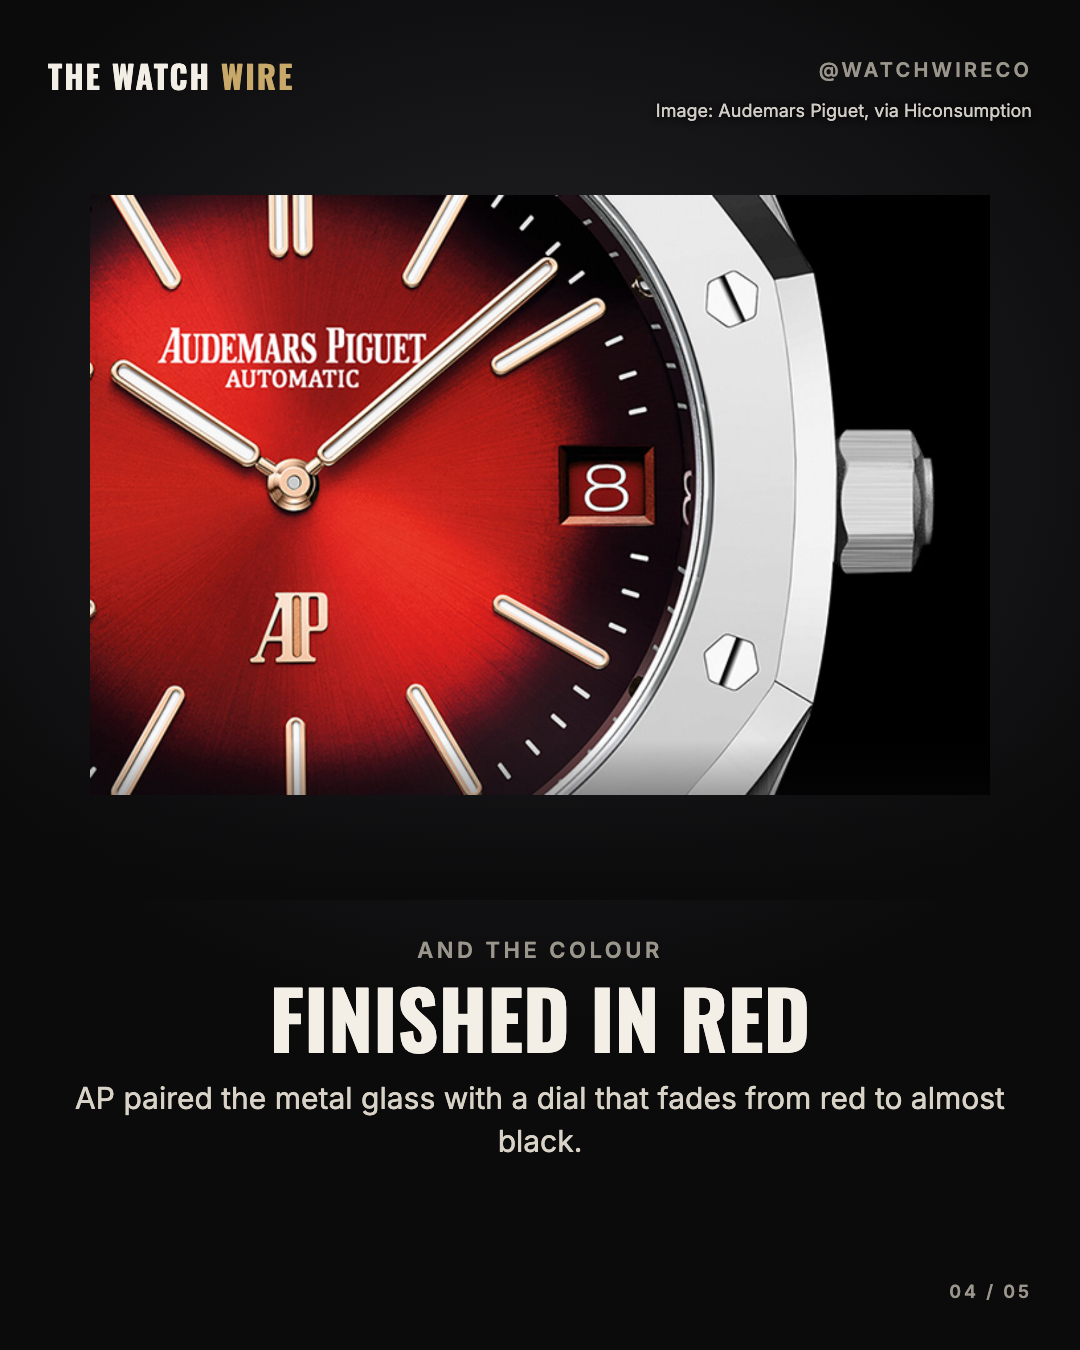
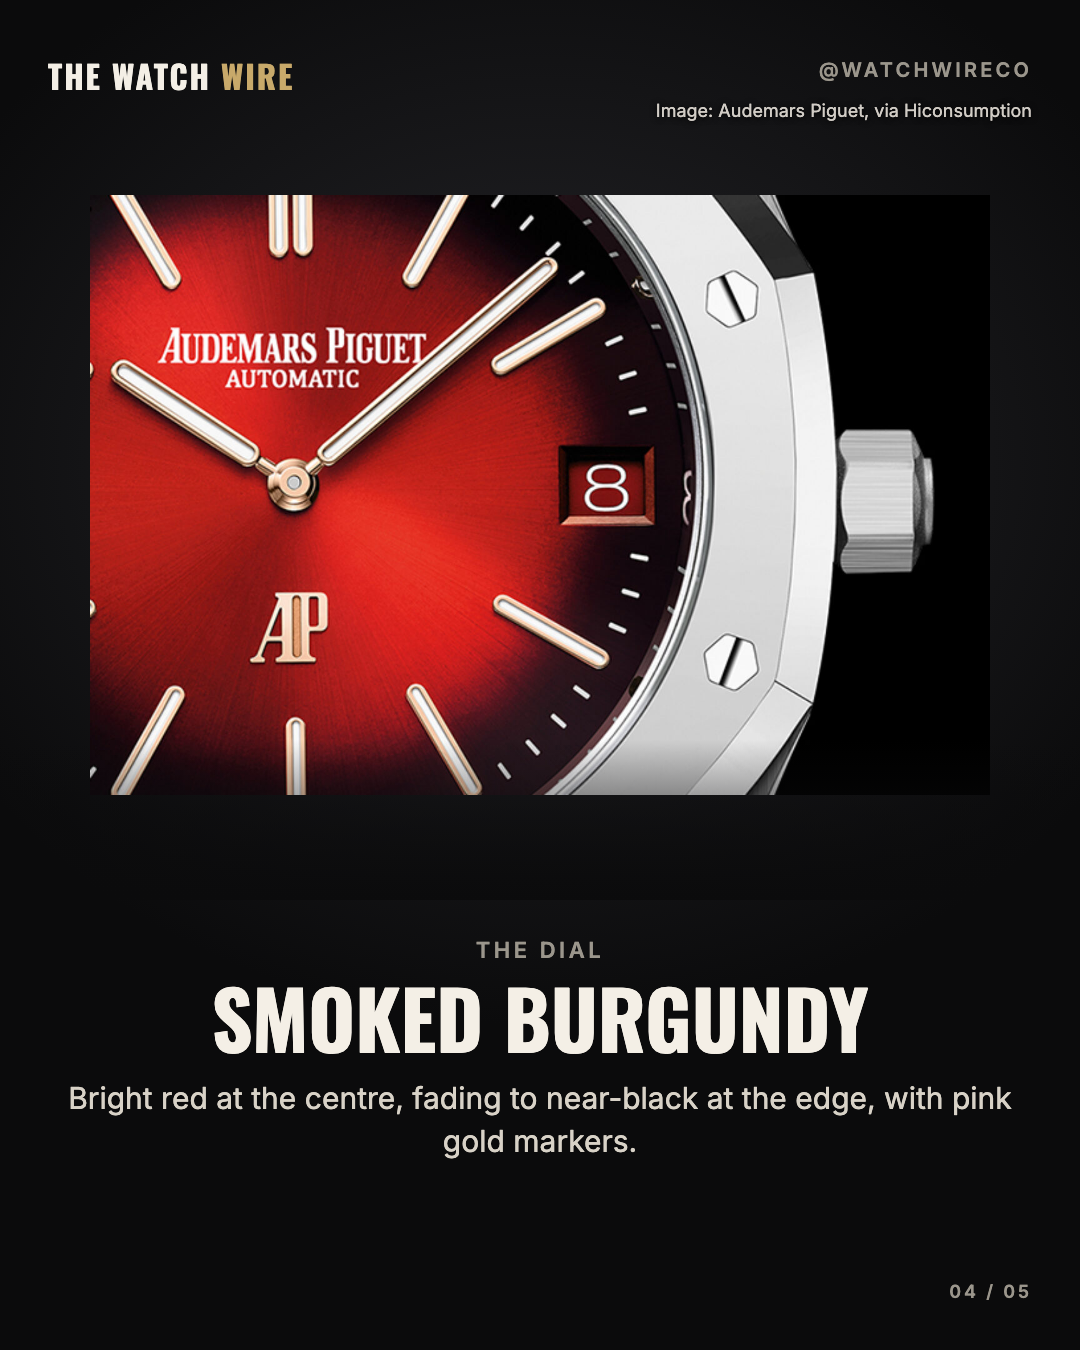
Watch-fan voice: real watch words, no baby talk; AP Jumbo reworded

Changed region(s): [[0.0611, 0.6844, 0.9472, 0.8711]]

diff --git a/.claude/agents/watch-wire-editor.md b/.claude/agents/watch-wire-editor.md
@@ -34,7 +34,7 @@ Your prompt includes this post's format recipe and the latest lessons; don't rea
 - Owner direction (2026-11-25): celebrities and events first, then WATCH EXPLAINED, new releases and new lines.
   Make posts, don't stop: if one detail can't be confirmed, drop that detail or that slide and keep going.
 - Comparisons put both watches on the cover (A-cover photo + photo2). Never "e.g.": write "Like this: …".
-- PLAIN WORDS (owner 2026-11-26: "our posts are often super hard to read"; full rules in FORMATS.md): write slides like a text to a friend who likes watches but is no expert. Each slide = one normal sentence that makes sense alone, no clipped riddles. No reference numbers, calibre codes, specs codes, sources or dates on slides ("Omega Speedmaster, $7,800"). Explain a technical word in the same sentence or drop it. One number per slide max. Read every slide aloud: if it sounds odd, rewrite it.
+- PLAIN WORDS (owner 2026-11-26: "our posts are often super hard to read"; full rules in FORMATS.md): write like a top watch account: confident, clear, real watch words (bezel, centre links, smoked dial, bulk metallic glass); never baby talk ("the shiny parts", "frozen in a jumble") — owner 2026-11-27. Each slide = one normal sentence that makes sense alone, no clipped riddles. No reference numbers, calibre codes, specs codes, sources or dates on slides ("Omega Speedmaster, $7,800"). Explain a technical word in the same sentence or drop it. One number per slide max. Read every slide aloud: if it sounds odd, rewrite it.
 - ONE STORY (owner 2026-11-27, full rule in FORMATS.md): write the post as one short paragraph first (promise → answer → why it's interesting → payoff), then cut it into slides in order. Slide 2 pays off the cover at once; each slide follows from the last like the next sentence; never repeat the cover's words; no topic-only slides ("The dial", "The size"). Read all slides in order as one paragraph before finishing.
 - COVER HEADLINE (owner 2026-11-26): a 3-5 word twist that makes people curious ("No Snow, No Watch", "Built For A Trench War"), never a description ("What A Tachymeter Does"). Meta line = watch name · one number. The cover photo is big and tight (face, wrist or watch filling the frame).
 - Short: headlines 2–6 words, body 15 words max. Everything centred; no stray shapes or white boxes.

diff --git a/watch-wire-engine/FORMATS.md b/watch-wire-engine/FORMATS.md
@@ -15,11 +15,11 @@ off, reposting other creators' slides or photos, a press photo presented as ours
 **CTA:** calm and direct, one action ("Vote in the comments." / "Follow @watchwireco
 for daily watch news.").
 
-**Plain words (owner 2026-11-26: "our posts are often super hard to read").** Write the slides like a text to a friend who likes watches but isn't an expert.
+**Plain words (owner 2026-11-26: "our posts are often super hard to read").** Write like a top watch account (@luxurywatchmedia): confident and clear, using real watch words a watch fan knows (bezel, bracelet, centre links, dial, case, movement, titanium, bulk metallic glass, smoked dial, pink gold). Never baby talk or vague paraphrase ("the shiny parts", "frozen in a jumble", "winds itself" → "automatic") — owner 2026-11-27: "this is a watch page."
 - Every slide reads as one full, normal sentence or phrase that makes sense on its own. No riddles or clipped fragments ("Times a stretch, not seconds" → "It measures speed, not time").
 - Slide text never carries reference numbers, calibre codes, specs codes, sources or dates. "Omega Speedmaster, $7,800" — not "Ref 310.30.42.50.01.001 Speedmaster: USD 7,800, per The 1916 Company, 22 Nov 2026". The reference, source and date go in the caption.
 - Name watches the way people say them: "Rolex Daytona", "Patek Nautilus", "Cartier Tank".
-- A technical word is explained in the same sentence or dropped (no vph, lug-to-lug, calibre, Hz, DLC on slides). At most one number per slide.
+- Spec-sheet shorthand and codes stay off slides (vph, Hz, calibre numbers, lug-to-lug, reference numbers). Normal watch words stay; a rare one (tachymeter, tourbillon) gets a few words of explanation. At most one number per slide.
 - Body ≤15 words, one sentence. Spec tables only for NEW RELEASES, 3 rows max, plain labels ("Size", "Price", "How many").
 - State facts plainly, as statements: never "per GQ", "according to", "reportedly", "as reported in". Sources live only in the caption's bottom "Source: …" line, never on slides.
 - Caption: line 1 is the hook in plain English (no reference numbers); then 2–4 short sentences; the question; then "Source: …" and credits at the end.

diff --git a/.claude/agents/watch-wire-approver.md b/.claude/agents/watch-wire-approver.md
@@ -15,7 +15,8 @@ once only when the headline fact is not already in verified facts or library pri
 
 Go through this checklist in order before you reply (it is how the owner judges a post):
 1. Stop test: would a stranger scrolling stop at the cover? One big tight picture, a 3-5 word twist headline.
-2. Read-aloud test: read every slide as a non-expert. Anything clipped, coded, cited ("per X") or jargon → issue with the exact rewrite.
+2. Read-aloud test: read every slide as a watch fan. Anything clipped, coded, cited ("per X"), spec-sheet shorthand, OR dumbed-down
+   baby talk that avoids the real watch word ("the shiny parts" for the bezel, "frozen in a jumble") → issue with the exact rewrite.
 3. Picture test: each slide's picture shows what its words name (the right person, the right watch), credited.
 4. Fact test: every number, name and date on the slides is in the claims or verified facts.
 5. Value test: a reason to save, share or comment.
@@ -31,7 +32,7 @@ in every photo (spotted slides: medallion + arrow on the wrist, and the medallio
 words, body ≤15; pictures match the subject (celebrity/gameplay/watch); posts give value (niche, timely or a choice).
 Comparisons show both watches on the cover; no "e.g." anywhere.
 Readability (owner 2026-11-26: "our posts are often super hard to read") → major, text_only, with the exact rewrite: a slide
-that doesn't read as a normal sentence a non-expert gets on first read (clipped riddles like "Times a stretch, not seconds"),
+that doesn't read as a clear sentence a watch fan gets on first read (clipped riddles like "Times a stretch, not seconds"),
 reference numbers/calibre codes/sources/dates in slide text (they belong only at the bottom of the caption), an unexplained technical word.
 Cover headline that only describes ("What A Tachymeter Does") instead of a 3-5 word twist ("Built To Time A Race") → major, text_only.
 

diff --git a/watch-wire-engine/state/owner-taste.md b/watch-wire-engine/state/owner-taste.md
@@ -39,3 +39,4 @@ approved), with the date and the reason. Newest at the top.
 - 2026-11-26: State facts plainly as statements; no "per GQ"/"according to"/"reportedly" in slides or caption text. All sources go in the Source line at the bottom of the caption. WOULD YOU RATHER choice posts back in the regular mix.
 - 2026-11-26: Sources only at the bottom of the caption; never on slides (slide footer no longer prints a source). Photo credits stay on photo slides (permission terms).
 - 2026-11-27: Owner: the AP Jumbo words 'made literally zero sense' (cover 'Metal that acts like glass' → slide 2 the dial → slide 3 repeated the cover). Every post is one story: write it as a paragraph first, slide 2 pays off the cover, each slide follows the last. Pictures and design were praised.
+- 2026-11-27: Owner: 'this is a watch page' — plain words went too far ('the shiny parts', 'frozen in a jumble'). Use real watch words (bezel, centre links, smoked dial, BMG) in a confident, clear voice like @luxurywatchmedia; only codes and spec shorthand stay off slides.
